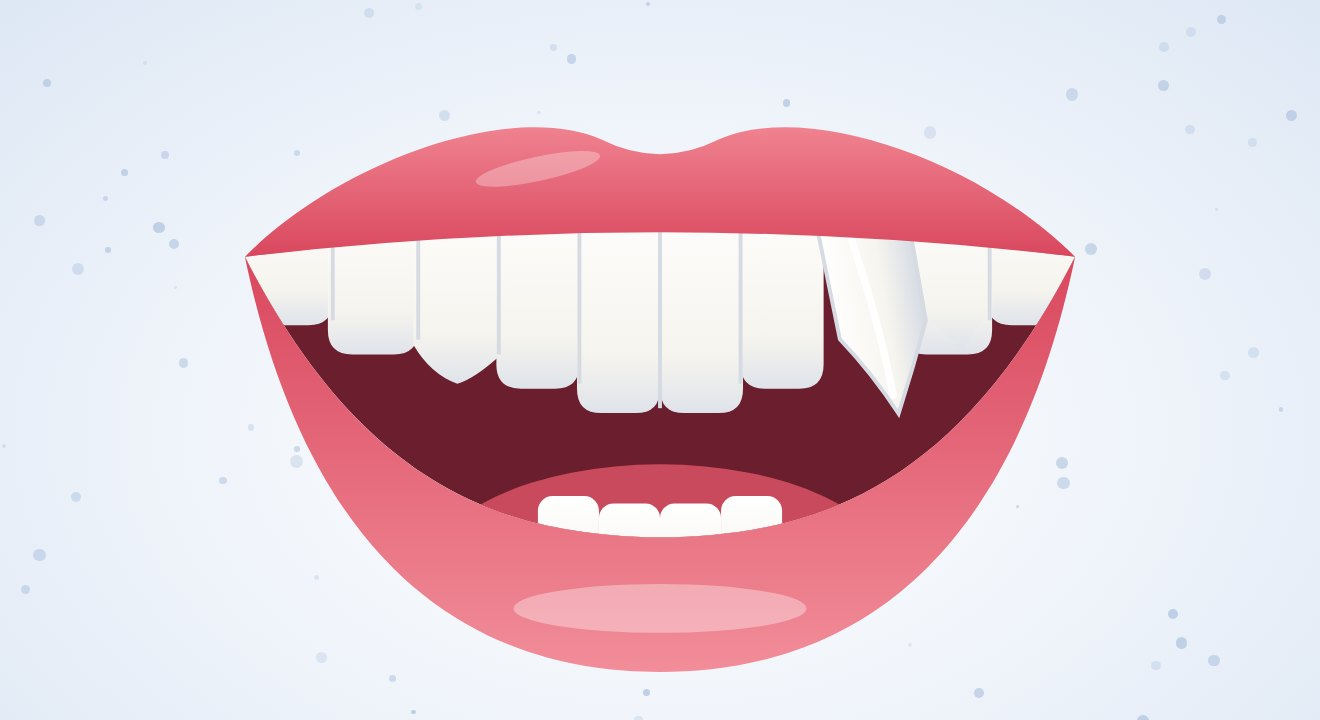
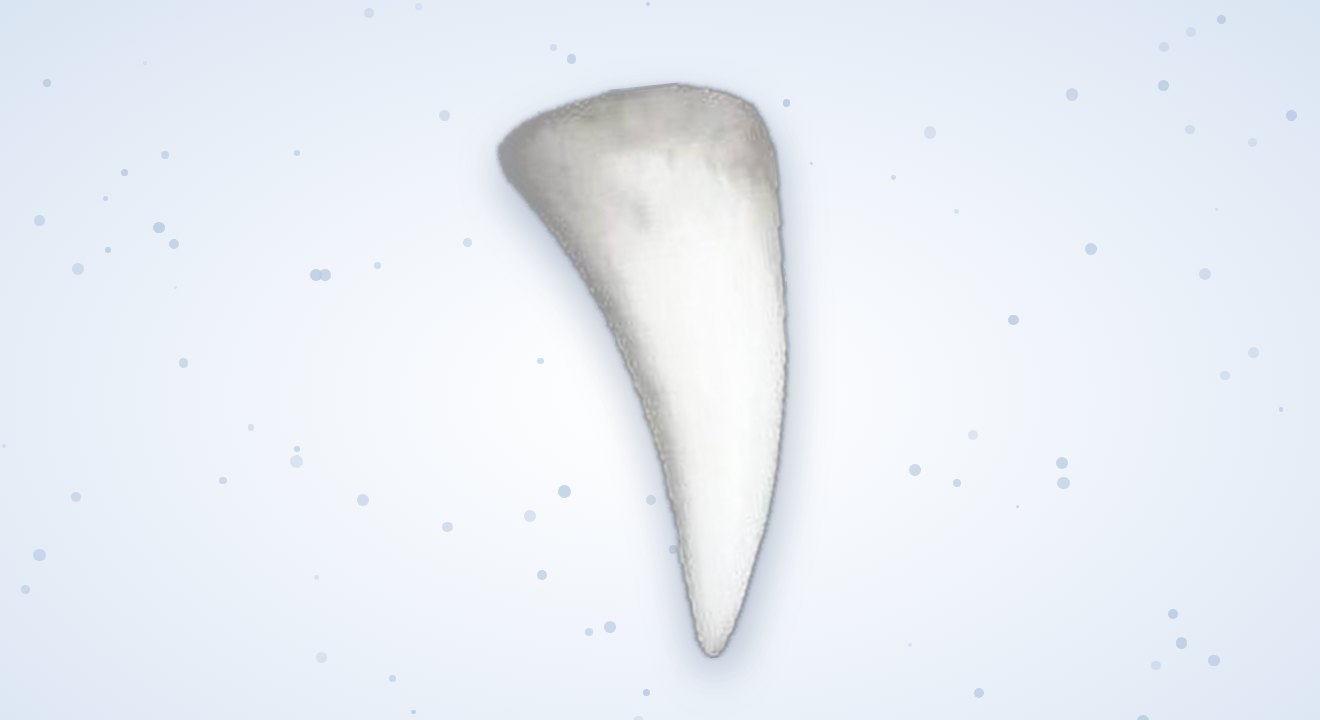
잠자코: 스마일 ! 표지를 송곳니 사진으로, 제목 KCC박경리체
Claude-Session: https://claude.ai/code/session_0194avCRYRzDb3VVAcuc81Ng

Changed region(s): [[0.1864, 0.0917, 0.8076, 0.9472], [0.8076, 0.3667, 0.8386, 0.3972]]

diff --git a/jamjako/index.html b/jamjako/index.html
@@ -13,6 +13,7 @@
   <!-- 넥슨 카트 고딕 (제목용, 넥슨 무료 서체) -->
   <link rel="stylesheet" href="https://cdn.jsdelivr.net/gh/fonts-archive/KartriderKor/subsets/KartriderKor-dynamic-subset.css">
   <!-- 글마다 다른 폰트 (look) -->
+  <link rel="stylesheet" href="https://cdn.jsdelivr.net/gh/fonts-archive/KCCPakKyongni/subsets/KCCPakKyongni-dynamic-subset.css">
   <link href="https://fonts.googleapis.com/css2?family=Gowun+Dodum&family=Black+Han+Sans&family=Nanum+Myeongjo:wght@400;700&family=Hahmlet:wght@400;700&family=Nanum+Gothic+Coding:wght@700&family=IBM+Plex+Sans+KR:wght@400&family=Do+Hyeon&family=Gothic+A1:wght@400;700&display=swap" rel="stylesheet">
   <style>
     :root {
@@ -197,7 +198,7 @@
 
     /* 글마다 다른 폰트·색: posts.js의 look: '이름' → .look-이름 */
     .look-smile .modal-head { background: #dde7f4; color: #20263a; }
-    .look-smile .modal-title { font-family: 'Gowun Dodum', var(--kart); font-weight: 400; }
+    .look-smile .modal-title { font-family: 'KCC PakKyongni', var(--kart); font-weight: 400; font-size: 2.2rem; }
     .look-smile .modal-body { font-family: 'Gowun Dodum', var(--serif); }
     .look-upbo .modal-head { background: #e8622c; }
     .look-upbo .modal-title { font-family: 'Black Han Sans', var(--kart); font-weight: 400; font-size: 2.6rem; }
